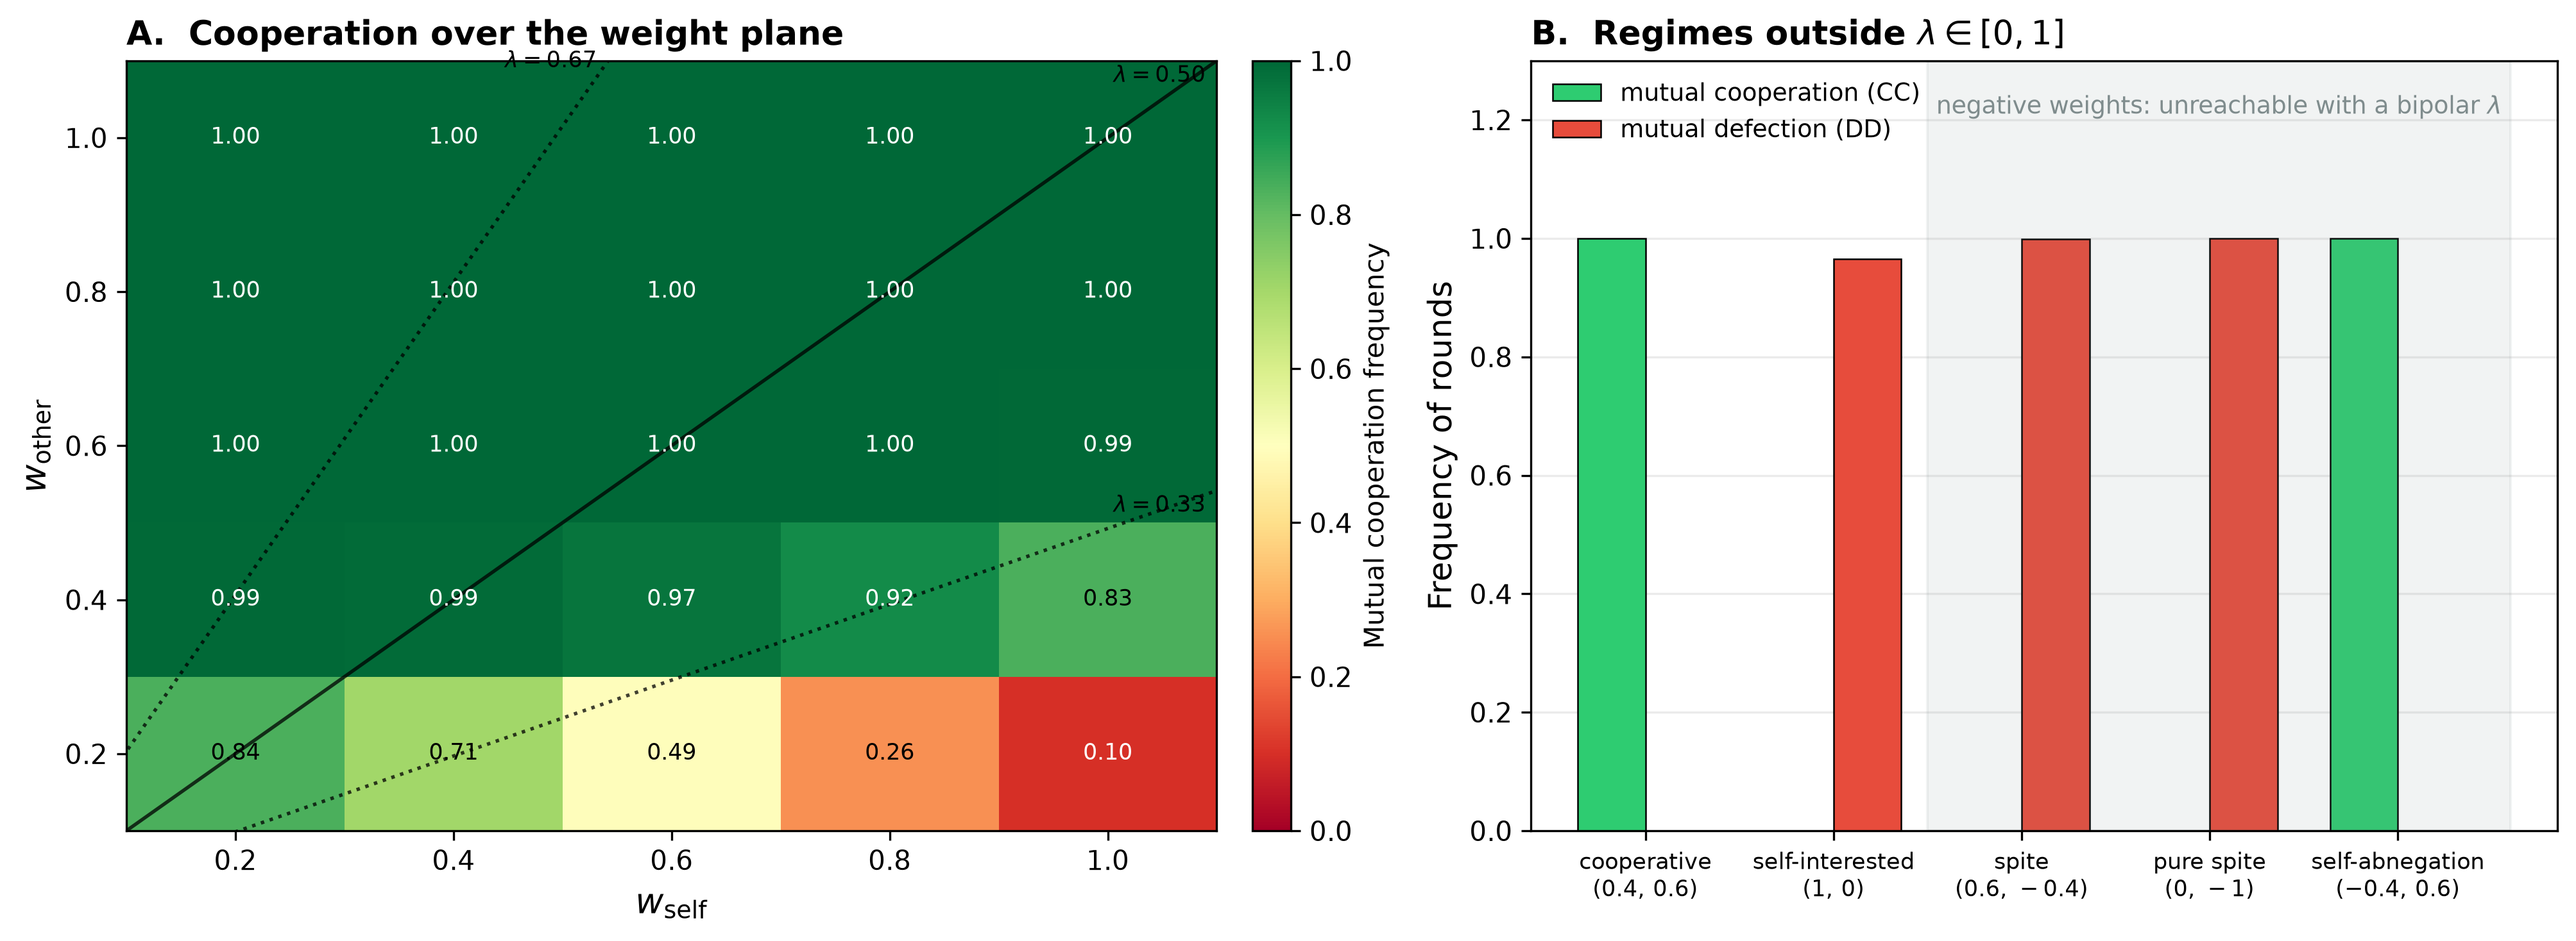
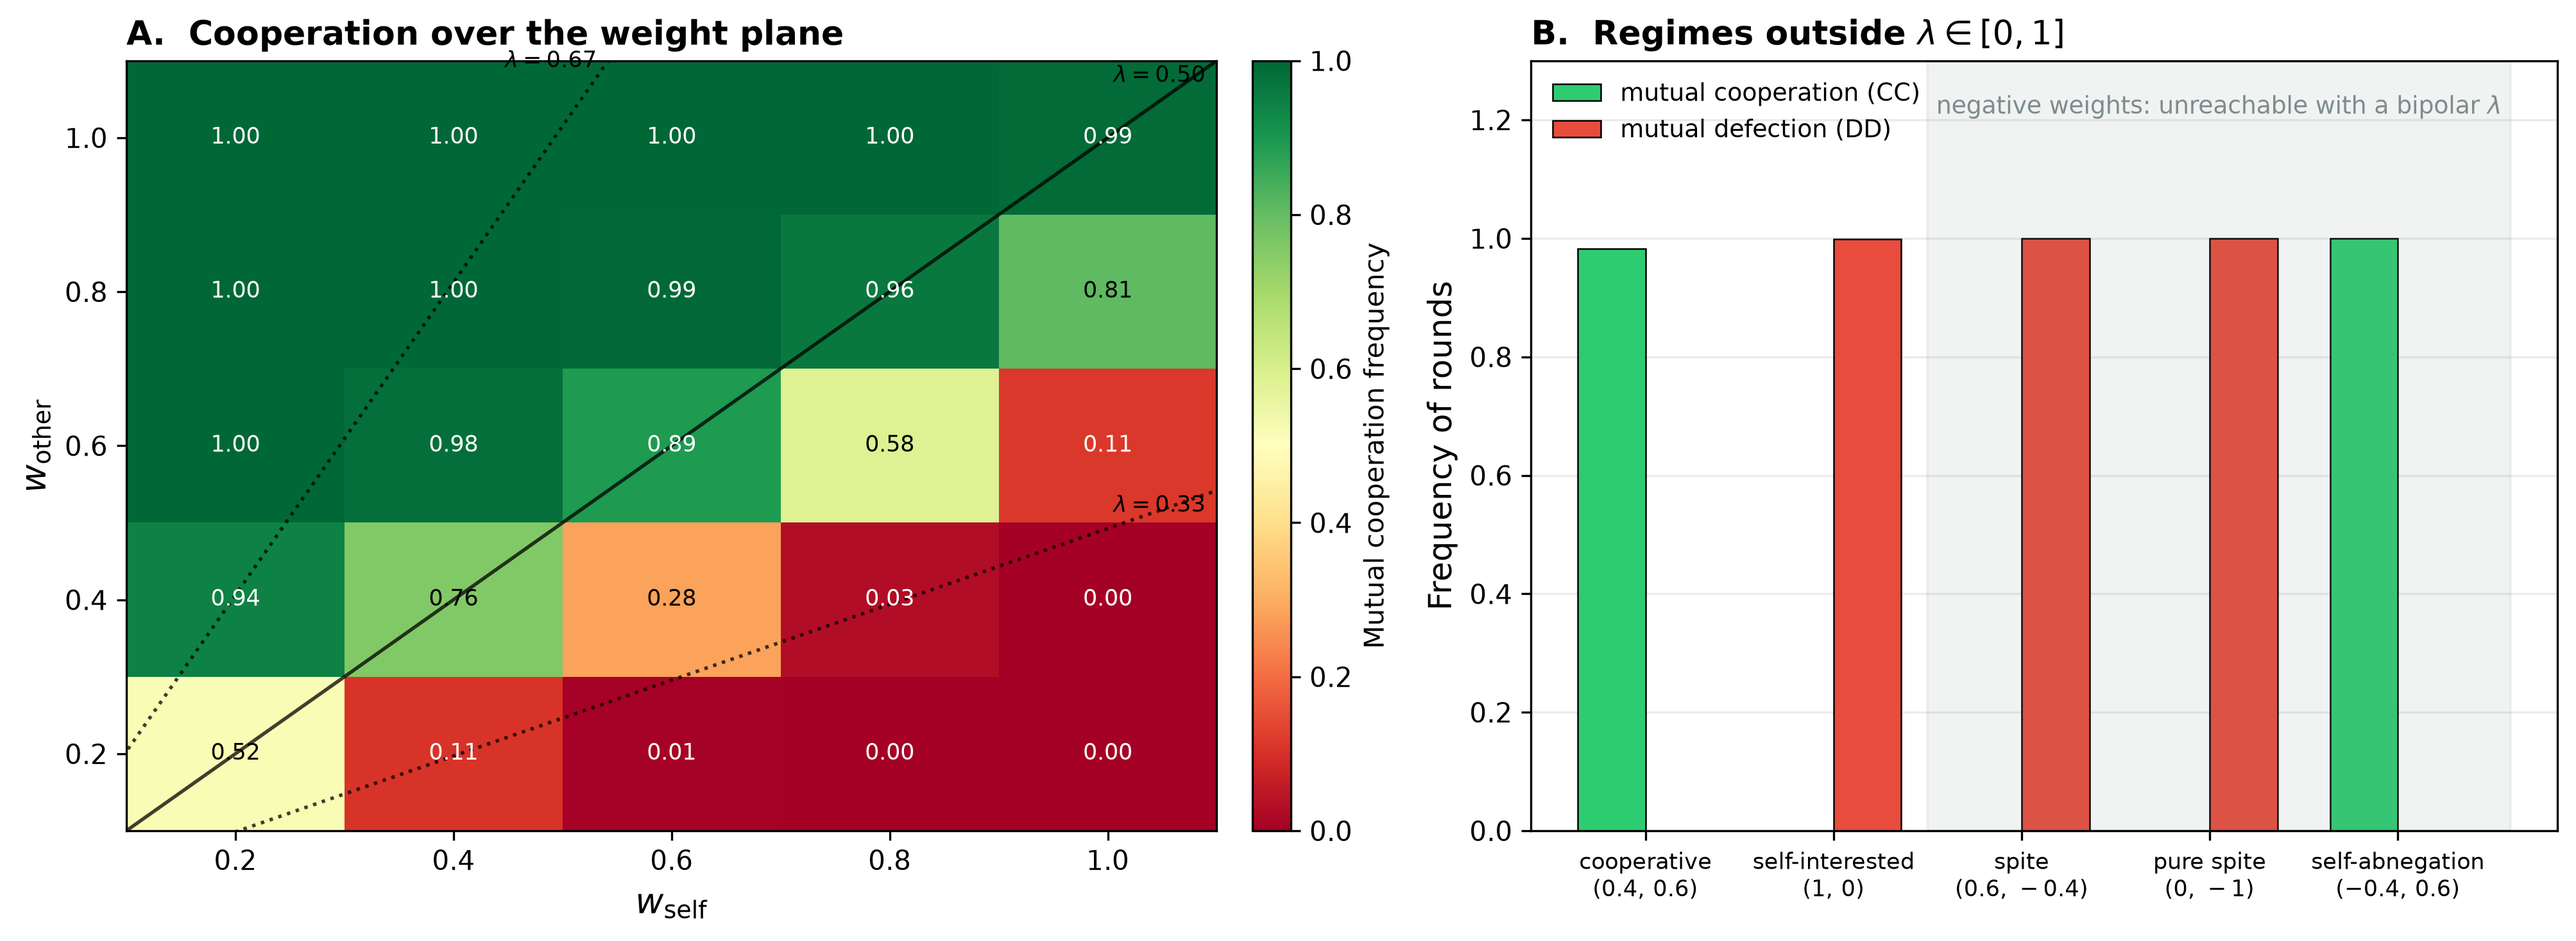
Regenerate figures 8, 9 and 10 under the corrected model
These three were the only figures never regenerated after the 30 Jul
rebaseline; commit 6f893f0 covered figures 1, 2, 3, 5 and 6 only.

Figure 9's two annotations were hard-coded for the pre-correction data
and are now wrong: the standard lambda=0.3 curve no longer coincides with
weak-temptation lambda=0.5, and the weak-temptation lambda=0.3 curve
rises rather than showing "no erosion". Replaced with annotations that
describe what the corrected data shows.

diff --git a/scripts/generate_revision_figures.py b/scripts/generate_revision_figures.py
@@ -171,12 +171,16 @@ def fig_payoff_horizon(out_dir):
     axes[0].set_ylabel("Mutual cooperation frequency", fontsize=12)
     axes[0].legend(fontsize=10, loc="lower left", frameon=True)
 
-    # flag the two rows that coincide (empathy rescales the temptation margin)
-    axes[0].annotate("$\\lambda=0.3$ here matches\n$\\lambda=0.5$ under weak temptation",
-                     xy=(2, 0.66), xytext=(2.15, 0.30), fontsize=8.5, color=GREY,
+    # Planning depth only bites near the transition. Above threshold the
+    # rows are saturated and horizon is inert, so the annotations point at
+    # the lambda=0.3 curves rather than at the old (pre-correction)
+    # coincidence between standard lambda=0.3 and weak-temptation lambda=0.5,
+    # which the opponent-inference model no longer produces.
+    axes[0].annotate("erosion confined to $\\lambda=0.3$;\nsaturated rows are flat",
+                     xy=(3, 0.141), xytext=(1.75, 0.42), fontsize=8.5, color=GREY,
                      arrowprops=dict(arrowstyle="->", color=GREY, lw=1))
-    axes[1].annotate("no erosion:\ncooperation already collapsed",
-                     xy=(3, 0.19), xytext=(1.6, 0.42), fontsize=8.5, color=GREY,
+    axes[1].annotate("direction reverses at $\\lambda=0.3$:\ndeeper planning helps slightly",
+                     xy=(3, 0.196), xytext=(1.5, 0.46), fontsize=8.5, color=GREY,
                      arrowprops=dict(arrowstyle="->", color=GREY, lw=1))
 
     fig.tight_layout()
